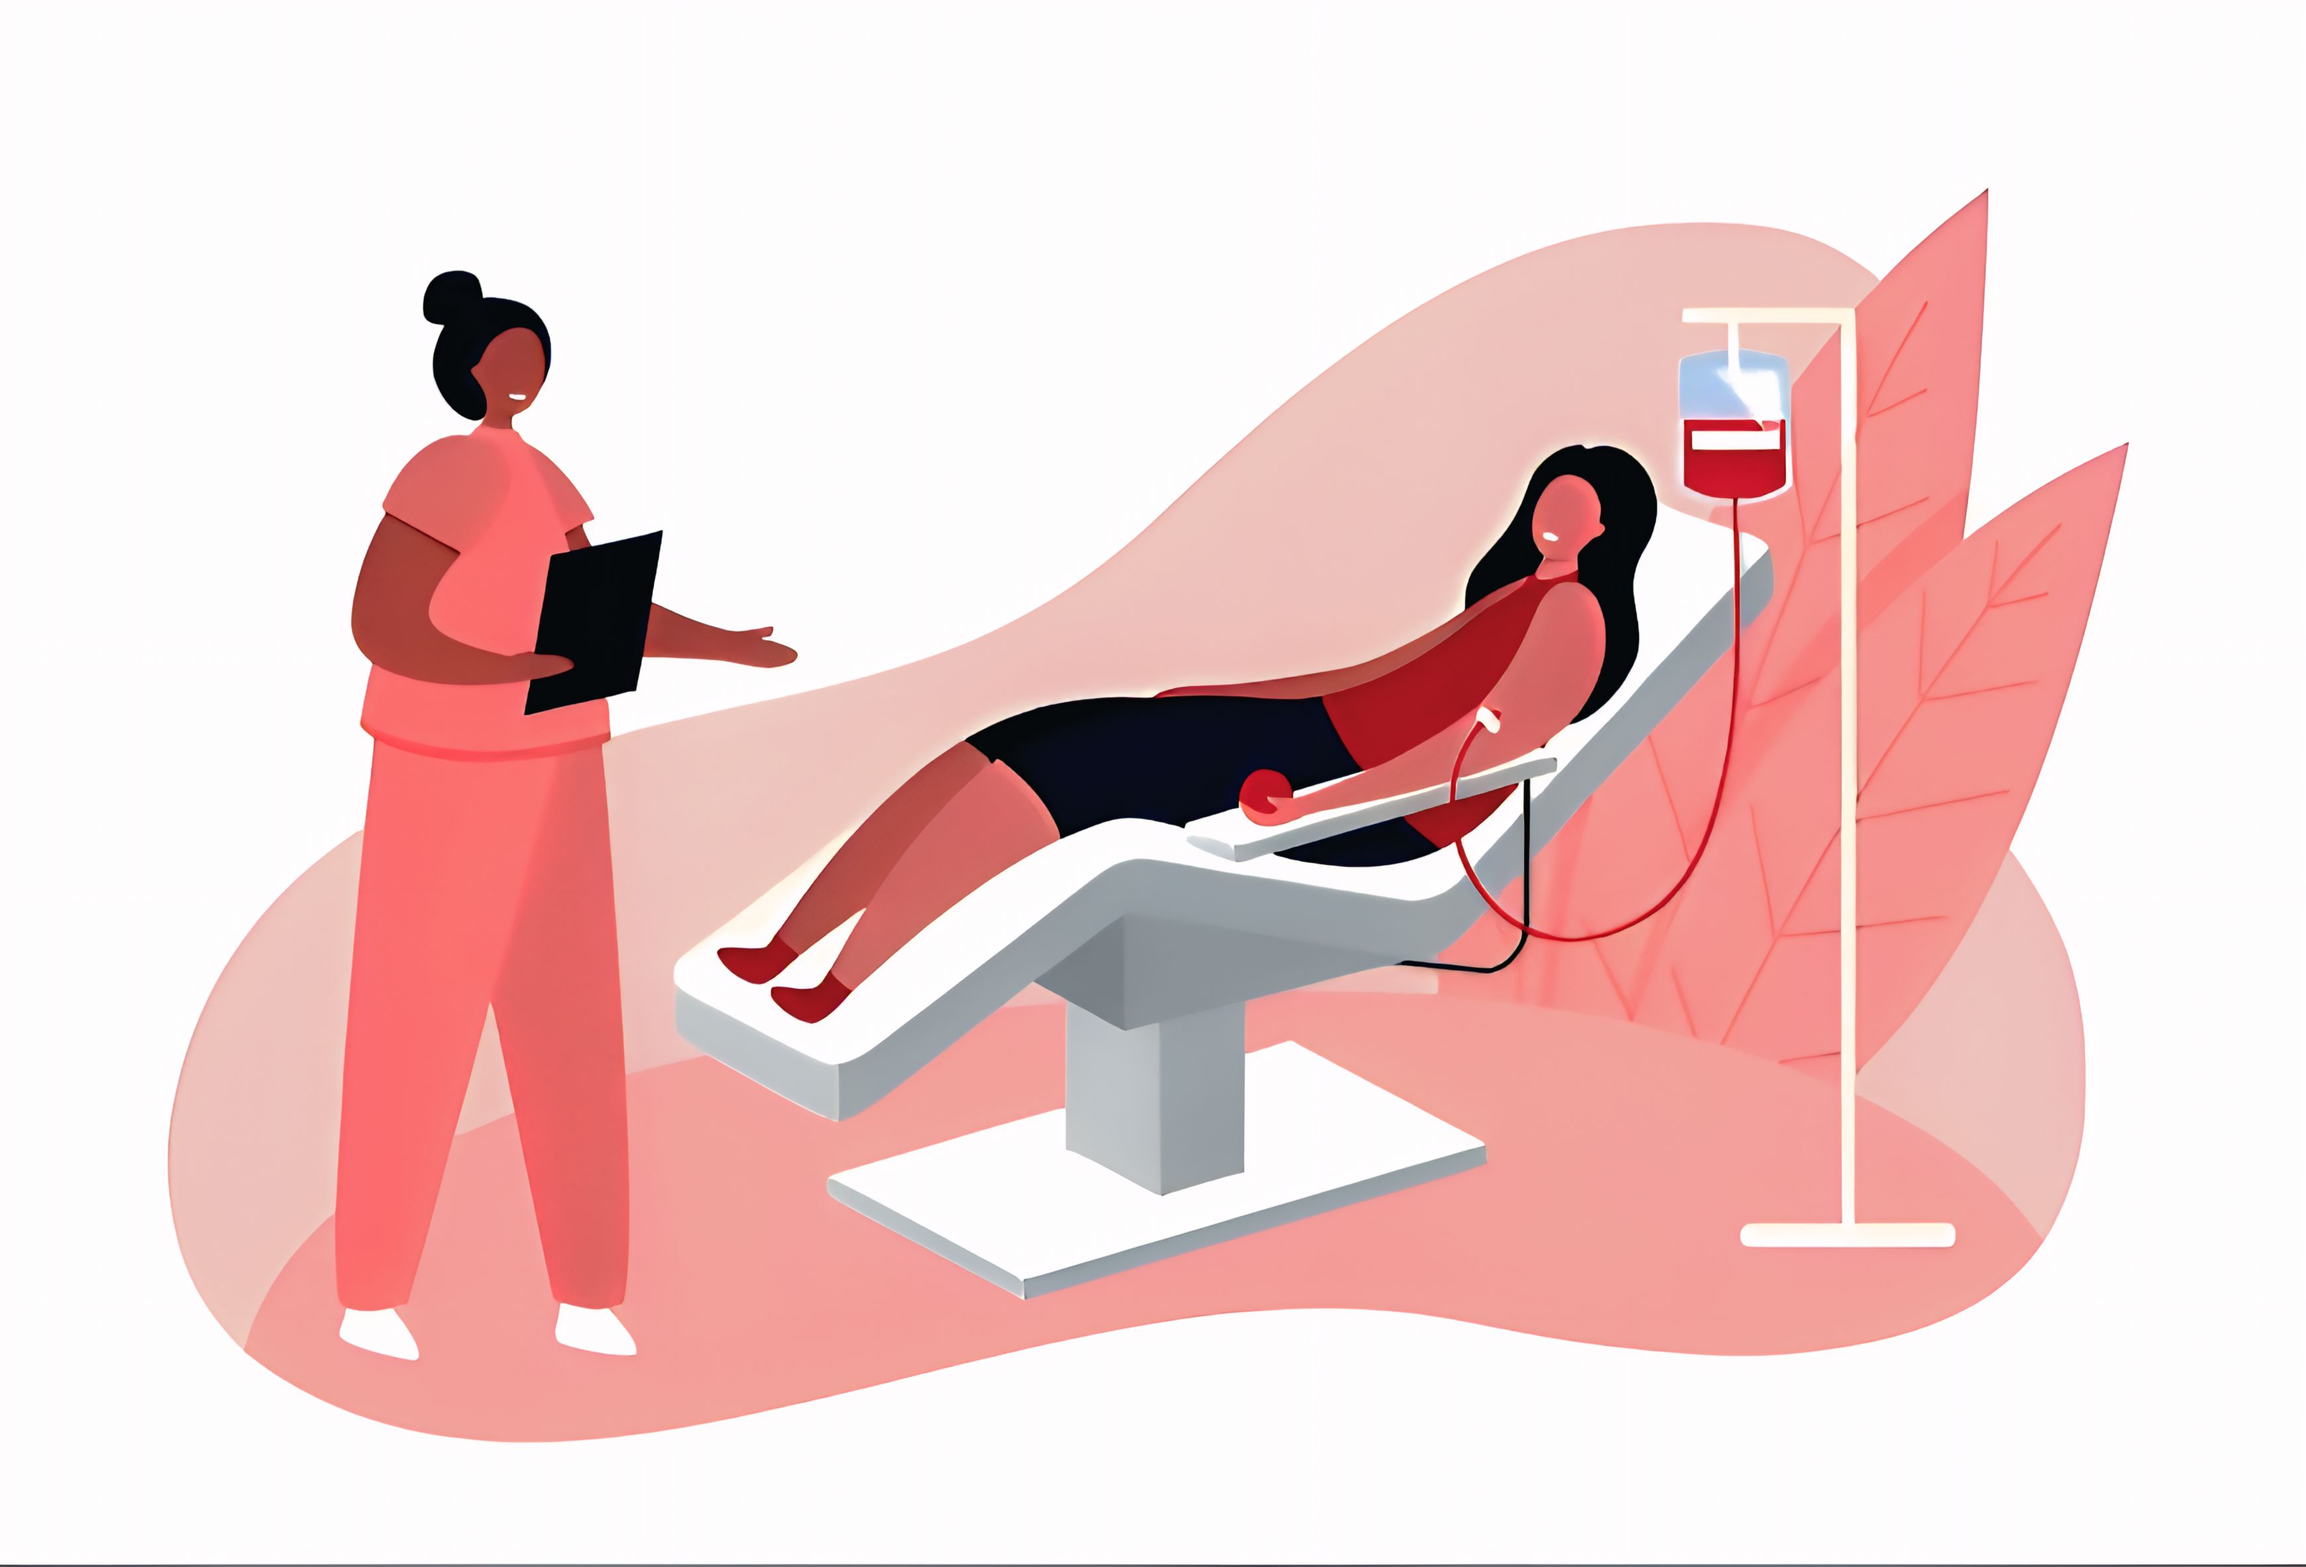
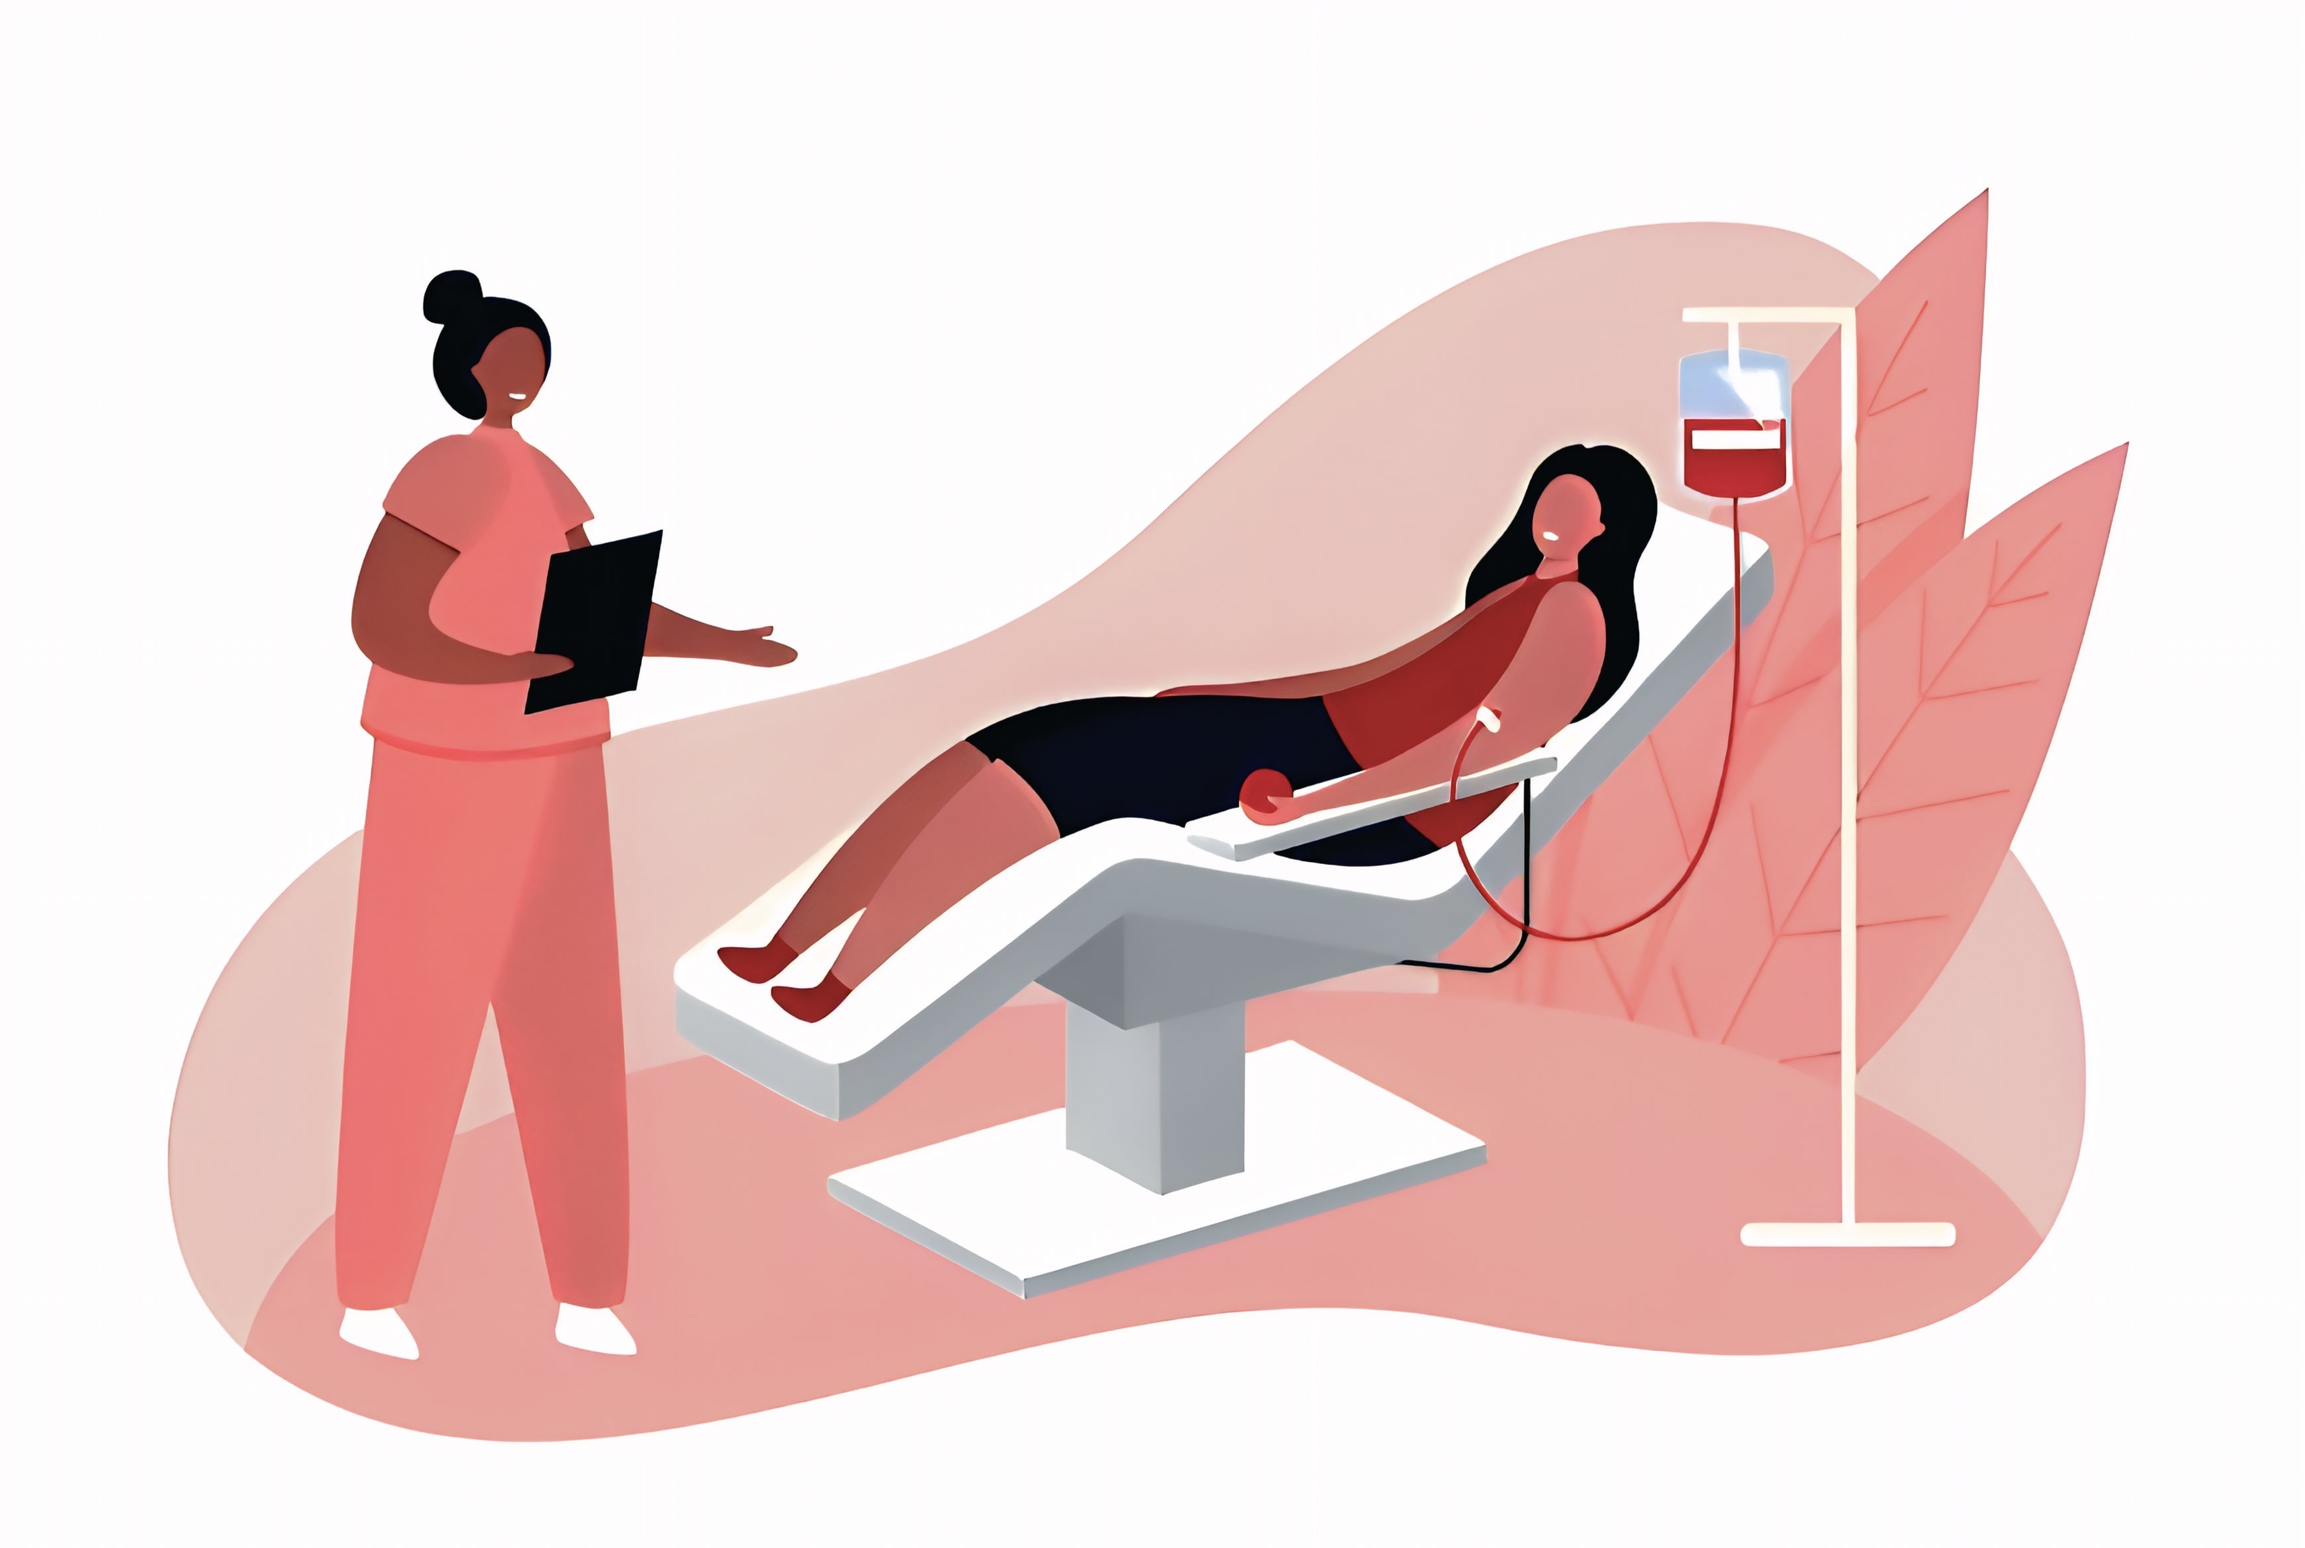
Fix : pofile & respond

diff --git a/public/css/respond.css b/public/css/respond.css
@@ -1,6 +1,3 @@
-
-
-<style>
     #emergencyRequestBtn {
         position: fixed;
         top: 12%;
@@ -22,7 +19,7 @@
         background-color: #8b2a2f;
     }
 
-    #close {
+    #closeEmergencyFormBtn {
         position: absolute;
         top: 18px;
         right: 15px;
@@ -33,7 +30,7 @@
         border: none;
     }
 
-    .respond-form {
+    .request-form {
         position: fixed;
         top: 50%;
         left: 50%;
@@ -47,19 +44,18 @@
         overflow-y: auto;
         box-shadow: 0 20px 25px rgba(0, 0, 0, 0.2);
         display: none;
-        flex-direction: column;
         z-index: 1000;
         transform: translate(-50%, -50%);
         color: #000;
         text-align: left;
     }
 
-    .respond-form h2 {
+    .request-form h2 {
         margin-bottom: 10px;
         text-align: left;
     }
 
-    .respond-form label {
+    .request-form label {
         display: block;
         margin-bottom: 4px;
     }
@@ -86,9 +82,9 @@
         -moz-appearance: textfield;
     }
 
-    .respond-form input,
-    .respond-form select,
-    .respond-form textarea {
+    .request-form input,
+    .request-form select,
+    .request-form textarea {
         width: 100%;
         padding: 0.75rem;
         border: 1px solid #8f8f8fcf;
@@ -97,9 +93,9 @@
         margin-bottom: 1rem;
     }
 
-    .respond-form input:focus,
-    .respond-form select:focus,
-    .respond-form textarea:focus {
+    .request-form input:focus,
+    .request-form select:focus,
+    .request-form textarea:focus {
         outline: none;
         border-color: #a23238;
         box-shadow: 0 0 0 3px rgba(244, 67, 54, 0.2);
@@ -139,43 +135,3 @@
             font-size: 20px;
         }
     }
-</style>
-
-<!DOCTYPE html>
-<html lang="en">
-<head>
-    <meta charset="UTF-8">
-    <meta name="viewport" content="width=device-width, initial-scale=1.0">
-    <title>Document</title>
-</head>
-<body>
-    <div id="respondFormOverlay" class="request-form-overlay"></div>
-<div id="respondFormModal" class="respond-form">
-    <button type="button" id="close" class="close-btn" aria-label="Close Emergency Form"
-        style="background: #1a1110; color: #fff; max-height:50px;font-size:large"><svg
-            xmlns="http://www.w3.org/2000/svg" viewBox="0 0 24 24" width="32" height="32" fill="rgba(0,0,0,1)">
-            <path
-                d="M12 22C6.47715 22 2 17.5228 2 12C2 6.47715 6.47715 2 12 2C17.5228 2 22 6.47715 22 12C22 17.5228 17.5228 22 12 22ZM12 10.5858L9.17157 7.75736L7.75736 9.17157L10.5858 12L7.75736 14.8284L9.17157 16.2426L12 13.4142L14.8284 16.2426L16.2426 14.8284L13.4142 12L16.2426 9.17157L14.8284 7.75736L12 10.5858Z">
-            </path>
-        </svg></button>
-    <h2>Respond Form</h2>
-    <input name="hospitalName" placeholder="Hospital Name">
-    <input type="text" name="location" placeholder="Location (e.g., Madanapalle)" />
-    <input type="text" name="contactName" placeholder="Your Full Name" />
-    <input type="number" name="contactInfo" placeholder="Contact (Phone)" />
-
-    <label for="checkbox" style="opacity: 0.7;font-size: medium;">
-        <input type="checkbox" id="checkbox" required style="width: 19px;">
-        I confirm this is a genuine request
-    </label>
-
-    <div style="display: flex; justify-content: center; gap: 1rem;">
-        <button type="button" id="submitAndSearchBtn" class="cta-btn"
-            style="background: #1a1110; color: #fff; max-height:50px">Submit and Search</button>
-        <button id="respond" type="submit" class="cta-btn" style="max-height:50px">Submit</button>
-    </div>
-    </form>
-</div>
-
-</body>
-</html>

diff --git a/Routes/postRoutes.js b/Routes/postRoutes.js
@@ -27,10 +27,9 @@ const { send } = require("process");
 postRouter.post("/SignUp", async (req, res) => {
   console.log("Body : ", req.body);
 
-  const { username, email, password, bloodGroup, phone, Location, DOB } =
-    req.body;
+  const { username, email, password, bloodGroup, phone, Location, DOB } = req.body;
 
-  if (!username || !email || !password || !phone) {
+  if (!username || !email) {
     return res.status(400).send("Please provide all required fields.");
   }
 
@@ -57,7 +56,7 @@ postRouter.post("/SignUp", async (req, res) => {
 
     res.redirect("/DashBoard");
   } catch (err) {
-    console.error("An errorduring sign up:", err);
+    console.error("An error during sign up:", err);
     return res.status(500).send("Internal Server Error.");
   }
 });
